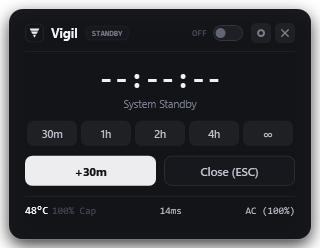
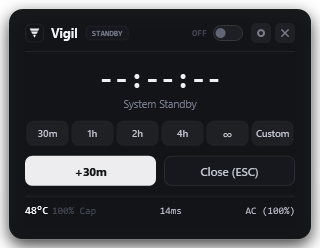
feat: customizable session duration, clean branding assets, and docs update

diff --git a/src/Vigil/Views/FlyoutWindow.xaml b/src/Vigil/Views/FlyoutWindow.xaml
@@ -68,20 +68,53 @@
             <!-- 1: Divider -->
             <Border Grid.Row="1" Height="1" Background="{StaticResource BrushBorderHairline}" Margin="0,8,0,10" />
 
-            <!-- 2: Countdown Timer & Subtitle (Spacious, High Legibility) -->
+            <!-- 2: Countdown Timer & Subtitle (Spacious, High Legibility, Click to Customize) -->
             <StackPanel Grid.Row="2" HorizontalAlignment="Center" Margin="0,0,0,10">
-                <TextBlock x:Name="TxtTimerDigits" Text="--:--:--" FontFamily="{StaticResource FontMono}" FontSize="28" FontWeight="Bold" Foreground="{StaticResource BrushTextWhite}" HorizontalAlignment="Center" />
+                <TextBlock x:Name="TxtTimerDigits" Text="--:--:--" Cursor="Hand" ToolTip="Click to customize duration" MouseLeftButtonDown="TxtTimerDigits_MouseLeftButtonDown" FontFamily="{StaticResource FontMono}" FontSize="28" FontWeight="Bold" Foreground="{StaticResource BrushTextWhite}" HorizontalAlignment="Center" />
                 <TextBlock x:Name="TxtTargetStatus" Text="System Standby" FontSize="10.5" Foreground="{StaticResource BrushTextMuted}" HorizontalAlignment="Center" Margin="0,2,0,0" />
             </StackPanel>
 
-            <!-- 3: Duration Presets (Comfortable Chips) -->
-            <UniformGrid Grid.Row="3" Columns="5" Margin="0,0,0,10">
-                <Button Click="Preset_Click" Tag="1800" Content="30m" Style="{StaticResource BentoPresetBtn}" Height="25" FontSize="10.5" Margin="2,0" />
-                <Button Click="Preset_Click" Tag="3600" Content="1h" Style="{StaticResource BentoPresetBtn}" Height="25" FontSize="10.5" Margin="2,0" />
-                <Button Click="Preset_Click" Tag="7200" Content="2h" Style="{StaticResource BentoPresetBtn}" Height="25" FontSize="10.5" Margin="2,0" />
-                <Button Click="Preset_Click" Tag="14400" Content="4h" Style="{StaticResource BentoPresetBtn}" Height="25" FontSize="10.5" Margin="2,0" />
-                <Button Click="Preset_Click" Tag="-1" Content="∞" Style="{StaticResource BentoPresetBtn}" Height="25" FontSize="11" Margin="2,0" />
-            </UniformGrid>
+            <!-- 3: Duration Presets & Inline Custom Duration -->
+            <Grid Grid.Row="3" Margin="0,0,0,10">
+                <!-- View A: Preset Chips (6 Columns) -->
+                <UniformGrid x:Name="GridPresets" Columns="6">
+                    <Button Click="Preset_Click" Tag="1800" Content="30m" Style="{StaticResource BentoPresetBtn}" Height="25" FontSize="10" Margin="1.5,0" />
+                    <Button Click="Preset_Click" Tag="3600" Content="1h" Style="{StaticResource BentoPresetBtn}" Height="25" FontSize="10" Margin="1.5,0" />
+                    <Button Click="Preset_Click" Tag="7200" Content="2h" Style="{StaticResource BentoPresetBtn}" Height="25" FontSize="10" Margin="1.5,0" />
+                    <Button Click="Preset_Click" Tag="14400" Content="4h" Style="{StaticResource BentoPresetBtn}" Height="25" FontSize="10" Margin="1.5,0" />
+                    <Button Click="Preset_Click" Tag="-1" Content="∞" Style="{StaticResource BentoPresetBtn}" Height="25" FontSize="11" Margin="1.5,0" />
+                    <Button x:Name="BtnToggleCustom" Click="BtnToggleCustom_Click" Content="Custom" Style="{StaticResource BentoPresetBtn}" Height="25" FontSize="9.5" Margin="1.5,0" ToolTip="Set custom duration (hours and minutes)" />
+                </UniformGrid>
+
+                <!-- View B: Inline Custom Duration Picker -->
+                <Grid x:Name="PanelCustomTime" Visibility="Collapsed" Height="25">
+                    <Grid.ColumnDefinitions>
+                        <ColumnDefinition Width="Auto" />
+                        <ColumnDefinition Width="42" />
+                        <ColumnDefinition Width="Auto" />
+                        <ColumnDefinition Width="Auto" />
+                        <ColumnDefinition Width="42" />
+                        <ColumnDefinition Width="Auto" />
+                        <ColumnDefinition Width="*" />
+                        <ColumnDefinition Width="Auto" />
+                    </Grid.ColumnDefinitions>
+
+                    <TextBlock Text="H:" FontFamily="{StaticResource FontMono}" FontSize="10" FontWeight="Bold" Foreground="{StaticResource BrushTextMuted}" VerticalAlignment="Center" Margin="0,0,4,0" />
+                    <TextBox Grid.Column="1" x:Name="TxtCustomHours" Text="1" Style="{StaticResource BentoNumberInput}" Height="24" MaxLength="2" PreviewTextInput="NumberValidationTextBox" KeyDown="CustomInput_KeyDown" />
+
+                    <TextBlock Grid.Column="2" Text="h" FontFamily="{StaticResource FontMono}" FontSize="10" Foreground="{StaticResource BrushTextDim}" VerticalAlignment="Center" Margin="3,0,6,0" />
+
+                    <TextBlock Grid.Column="3" Text="M:" FontFamily="{StaticResource FontMono}" FontSize="10" FontWeight="Bold" Foreground="{StaticResource BrushTextMuted}" VerticalAlignment="Center" Margin="0,0,4,0" />
+                    <TextBox Grid.Column="4" x:Name="TxtCustomMinutes" Text="30" Style="{StaticResource BentoNumberInput}" Height="24" MaxLength="2" PreviewTextInput="NumberValidationTextBox" KeyDown="CustomInput_KeyDown" />
+
+                    <TextBlock Grid.Column="5" Text="m" FontFamily="{StaticResource FontMono}" FontSize="10" Foreground="{StaticResource BrushTextDim}" VerticalAlignment="Center" Margin="3,0,8,0" />
+
+                    <Button Grid.Column="6" x:Name="BtnStartCustom" Click="BtnStartCustom_Click" Content="Start" Style="{StaticResource BentoActionBtn}" Height="24" FontSize="10.5" Padding="0" Margin="0,0,4,0" />
+                    <Button Grid.Column="7" x:Name="BtnCloseCustom" Click="BtnCloseCustom_Click" Style="{StaticResource WindowCtrlBtn}" Width="20" Height="20" ToolTip="Cancel custom duration">
+                        <Path Data="M3 3 L11 11 M11 3 L3 11" Stroke="{Binding Path=Foreground, RelativeSource={RelativeSource AncestorType=Button}}" StrokeThickness="1.5" StrokeStartLineCap="Round" StrokeEndLineCap="Round" Width="7" Height="7" Stretch="Uniform" />
+                    </Button>
+                </Grid>
+            </Grid>
 
             <!-- 4: Action Buttons (Two Wide, Comfortable Touch Targets) -->
             <Grid Grid.Row="4" Margin="0,0,0,8">

diff --git a/src/Vigil/App.xaml b/src/Vigil/App.xaml
@@ -245,5 +245,38 @@
                 </Setter.Value>
             </Setter>
         </Style>
+
+        <!-- Minimalist Number Input (Dark Obsidian) -->
+        <Style x:Key="BentoNumberInput" TargetType="TextBox">
+            <Setter Property="FontFamily" Value="{StaticResource FontMono}" />
+            <Setter Property="FontSize" Value="11" />
+            <Setter Property="FontWeight" Value="SemiBold" />
+            <Setter Property="Foreground" Value="{StaticResource BrushTextWhite}" />
+            <Setter Property="Background" Value="#16181D" />
+            <Setter Property="BorderBrush" Value="{StaticResource BrushBorderHairline}" />
+            <Setter Property="BorderThickness" Value="1" />
+            <Setter Property="HorizontalContentAlignment" Value="Center" />
+            <Setter Property="VerticalContentAlignment" Value="Center" />
+            <Setter Property="CaretBrush" Value="{StaticResource BrushTextWhite}" />
+            <Setter Property="Template">
+                <Setter.Value>
+                    <ControlTemplate TargetType="TextBox">
+                        <Border x:Name="InputBorder" 
+                                Background="{TemplateBinding Background}" 
+                                BorderBrush="{TemplateBinding BorderBrush}" 
+                                BorderThickness="{TemplateBinding BorderThickness}" 
+                                CornerRadius="5">
+                            <ScrollViewer x:Name="PART_ContentHost" />
+                        </Border>
+                        <ControlTemplate.Triggers>
+                            <Trigger Property="IsFocused" Value="True">
+                                <Setter TargetName="InputBorder" Property="BorderBrush" Value="{StaticResource BrushBorderActive}" />
+                                <Setter TargetName="InputBorder" Property="Background" Value="#1F2229" />
+                            </Trigger>
+                        </ControlTemplate.Triggers>
+                    </ControlTemplate>
+                </Setter.Value>
+            </Setter>
+        </Style>
     </Application.Resources>
 </Application>

diff --git a/src/Vigil/Views/SettingsWindow.xaml b/src/Vigil/Views/SettingsWindow.xaml
@@ -120,6 +120,16 @@
                                 </StackPanel>
                                 <CheckBox x:Name="ChkMuteAudio" Style="{StaticResource BentoToggleSwitch}" HorizontalAlignment="Right" VerticalAlignment="Center" />
                             </Grid>
+
+                            <Border Height="1" Background="{StaticResource BrushBorderHairline}" Margin="0,6" />
+
+                            <!-- Row: Default Session Duration Slider -->
+                            <Grid Margin="0,2">
+                                <TextBlock Text="Default session duration" FontSize="11.5" FontWeight="SemiBold" Foreground="{StaticResource BrushTextWhite}" />
+                                <TextBlock x:Name="TxtDefaultDurationLabel" Text="2h 00m" FontFamily="{StaticResource FontMono}" FontSize="11" FontWeight="Bold" Foreground="{StaticResource BrushTextWhite}" HorizontalAlignment="Right" />
+                            </Grid>
+                            <Slider x:Name="SliderDefaultDuration" Minimum="15" Maximum="480" Value="120" TickFrequency="15" IsSnapToTickEnabled="True" Margin="0,6,0,2" ValueChanged="SliderDefaultDuration_ValueChanged" />
+                            <TextBlock Text="Duration applied when starting a session without choosing a specific preset." FontSize="9.5" Foreground="{StaticResource BrushTextMuted}" TextWrapping="Wrap" />
                         </StackPanel>
                     </Border>
 

diff --git a/src/Vigil/Views/FlyoutWindow.xaml.cs b/src/Vigil/Views/FlyoutWindow.xaml.cs
@@ -126,6 +126,8 @@ public partial class FlyoutWindow : Window
                     BtnEndSession.Content = "Stop (ESC)";
                     BtnEndSession.Style = (Style)FindResource("BentoStopActiveBtn");
                     BtnEndSession.ToolTip = "Stop protection and restore normal sleep settings (ESC)";
+                    BtnToggleCustom.Content = "+ Custom";
+                    BtnStartCustom.Content = "+ Add";
                 }
                 else
                 {
@@ -136,6 +138,8 @@ public partial class FlyoutWindow : Window
                     BtnEndSession.Content = "Close (ESC)";
                     BtnEndSession.Style = (Style)FindResource("BentoDangerBtn");
                     BtnEndSession.ToolTip = "Close window to system tray (ESC)";
+                    BtnToggleCustom.Content = "Custom";
+                    BtnStartCustom.Content = "Start";
                 }
             }
             finally
@@ -249,6 +253,69 @@ public partial class FlyoutWindow : Window
         }
     }
 
+    private void BtnToggleCustom_Click(object sender, RoutedEventArgs e) => OpenCustomPanel();
+    private void TxtTimerDigits_MouseLeftButtonDown(object sender, MouseButtonEventArgs e) => OpenCustomPanel();
+
+    private void OpenCustomPanel()
+    {
+        GridPresets.Visibility = Visibility.Collapsed;
+        PanelCustomTime.Visibility = Visibility.Visible;
+        TxtCustomHours.Focus();
+        TxtCustomHours.SelectAll();
+    }
+
+    private void BtnCloseCustom_Click(object sender, RoutedEventArgs e) => CloseCustomPanel();
+
+    private void CloseCustomPanel()
+    {
+        PanelCustomTime.Visibility = Visibility.Collapsed;
+        GridPresets.Visibility = Visibility.Visible;
+    }
+
+    private void NumberValidationTextBox(object sender, TextCompositionEventArgs e)
+    {
+        var regex = new System.Text.RegularExpressions.Regex("[^0-9]+");
+        e.Handled = regex.IsMatch(e.Text);
+    }
+
+    private void CustomInput_KeyDown(object sender, System.Windows.Input.KeyEventArgs e)
+    {
+        if (e.Key == Key.Enter)
+        {
+            BtnStartCustom_Click(sender, e);
+            e.Handled = true;
+        }
+        else if (e.Key == Key.Escape)
+        {
+            CloseCustomPanel();
+            e.Handled = true;
+        }
+    }
+
+    private async void BtnStartCustom_Click(object sender, RoutedEventArgs e)
+    {
+        int.TryParse(TxtCustomHours.Text, out var hours);
+        int.TryParse(TxtCustomMinutes.Text, out var mins);
+
+        if (hours <= 0 && mins <= 0)
+        {
+            mins = 30;
+        }
+
+        var duration = TimeSpan.FromHours(hours) + TimeSpan.FromMinutes(mins);
+        if (_coordinator.CurrentStatus == SessionStatus.Active)
+        {
+            await _coordinator.ExtendSessionAsync(duration);
+        }
+        else
+        {
+            await _coordinator.StartSessionAsync(duration);
+        }
+
+        CloseCustomPanel();
+        RefreshUi();
+    }
+
     private async void Preset_Click(object sender, RoutedEventArgs e)
     {
         if (sender is FrameworkElement { Tag: string tagStr } && int.TryParse(tagStr, out var sec))
@@ -269,6 +336,13 @@ public partial class FlyoutWindow : Window
     {
         if (e.Key == Key.Escape)
         {
+            if (PanelCustomTime.Visibility == Visibility.Visible)
+            {
+                CloseCustomPanel();
+                e.Handled = true;
+                return;
+            }
+
             if (_coordinator.CurrentStatus == SessionStatus.Active)
             {
                 await _coordinator.EndSessionAsync(SessionEndReason.UserRequested);

diff --git a/src/Vigil/Views/SettingsWindow.xaml.cs b/src/Vigil/Views/SettingsWindow.xaml.cs
@@ -26,6 +26,10 @@ public partial class SettingsWindow : Window
         ChkKeepScreenOn.IsChecked = !_config.General.TurnDisplayOffOnSession;
         ChkMuteAudio.IsChecked = _config.General.MuteAudioOnLidClose;
 
+        var defaultMins = Math.Clamp(_config.General.DefaultDurationSeconds / 60, 15, 480);
+        SliderDefaultDuration.Value = defaultMins;
+        UpdateDefaultDurationLabel(defaultMins);
+
         SliderMaxProcessor.Value = _config.Thermal.MaxProcessorStatePercent;
         TxtMaxProcessorLabel.Text = $"{_config.Thermal.MaxProcessorStatePercent}%";
 
@@ -35,6 +39,21 @@ public partial class SettingsWindow : Window
         ChkWifiWatchdog.IsChecked = _config.WiFi.WatchdogEnabled;
         ChkProcessFreezer.IsChecked = _config.Freezer.Enabled;
         ChkAutoPilot.IsChecked = _config.AutoPilot.Enabled;
+    }
+
+    private void SliderDefaultDuration_ValueChanged(object sender, RoutedPropertyChangedEventArgs<double> e)
+    {
+        UpdateDefaultDurationLabel((int)e.NewValue);
+    }
+
+    private void UpdateDefaultDurationLabel(int totalMins)
+    {
+        if (TxtDefaultDurationLabel != null)
+        {
+            var h = totalMins / 60;
+            var m = totalMins % 60;
+            TxtDefaultDurationLabel.Text = h > 0 ? $"{h}h {m:D2}m" : $"{m}m";
+        }
     }
 
     private void SliderMaxProcessor_ValueChanged(object sender, RoutedPropertyChangedEventArgs<double> e)
@@ -74,6 +93,7 @@ public partial class SettingsWindow : Window
 
         _config.General.TurnDisplayOffOnSession = ChkKeepScreenOn.IsChecked != true;
         _config.General.MuteAudioOnLidClose = ChkMuteAudio.IsChecked == true;
+        _config.General.DefaultDurationSeconds = (int)SliderDefaultDuration.Value * 60;
 
         _config.Thermal.MaxProcessorStatePercent = (int)SliderMaxProcessor.Value;
         _config.Thermal.EmergencyTempThresholdCelsius = (int)SliderEmergencyTemp.Value;

diff --git a/CHANGELOG.md b/CHANGELOG.md
@@ -8,6 +8,9 @@ and this project adheres to [Semantic Versioning](https://semver.org/spec/v2.0.0
 ## [1.0.2] - 2026-11-19
 
 ### Added
+- **Customizable Duration**: Added inline custom duration panel (Hours and Minutes) accessible directly from the popover via the `Custom` chip or by clicking the countdown timer digits, with real-time numeric validation and Enter/ESC keyboard control.
+- **Default Duration Slider**: Configurable 15m to 480m (8 hours) session duration slider in Settings, persisting automatically to `config.json`.
+- **Spacious Minimalist Layout**: Expanded flyout dimensions to a comfortable 320 × 248 px with generous breathing room, 7px radii, and crisp micro-telemetry.
 - **Visual Settings Window**: Added an interactive modal settings interface (`SettingsWindow`) accessible via the gear button `⚙` in the menu bar popover or system tray context menu.
 - **Visual Sliders & Toggles**: Intuitive controls for Max Processor State (70-100%), Emergency Thermal Threshold (65-95°C), Start on boot, Screen sleep behavior, Mute audio on lid close, Wi-Fi watchdog, Process freezer, and Auto-pilot.
 - **Direct Configuration Access**: Integrated `📄 Edit config.json` shortcut button that opens `%LOCALAPPDATA%\Vigil\config.json` directly in Notepad for power users.
@@ -28,6 +31,7 @@ and this project adheres to [Semantic Versioning](https://semver.org/spec/v2.0.0
 - **Instant Display Wake**: Added a 1px synthetic mouse nudge to `WakeScreen()` to ensure Windows display drivers immediately restore backlight on lid open or session termination.
 
 ### Added
+- **Radar Chevron Brand Identity**: Integrated precision thermal fin chevron logo. Includes multi-resolution app icons (`icon.ico`, `icon.png`) and high-contrast white tray icon (`tray-icon-32.png`).
 - **Fail-Safe Session Cancellation**: Prominent vermillion `Stop (ESC)` button in flyout window, direct keyboard `ESC` shortcut, top-right master `OFF` switch, and top-level tray menu stop command.
 - **Interactive Preset Chips**: Clean 5-column preset buttons (`30m`, `1h`, `2h`, `4h`, `∞`) for instant session arming.
 

diff --git a/README.md b/README.md
@@ -65,7 +65,7 @@ Vigil provides four immediate, fail-safe ways to cancel an active guard session:
 
 - **Compact Menu Bar Interface**: Ultra-sleek 320 × 248 px popover inspired by Insomnia on macOS, Dieter Rams, and Teenage Engineering. Floats right above your taskbar system tray with an Obsidian (`#131417`) and Moon-White (`#EDEDF0`) palette. 100% clean English typography with zero AI-slop.
 - **Master Hardware Switch**: Direct `ON` / `OFF` toggle in the top-right header for instant manual protection without configuring a timer.
-- **Quick Preset Chips**: Jump into `30m`, `1h`, `2h`, `4h`, or indefinite (`∞`) protection with a single click.
+- **Customizable Duration & Presets**: Set any custom duration (hours and minutes) on the fly by clicking the countdown timer or the `Custom` chip. Jump directly into `30m`, `1h`, `2h`, `4h`, or indefinite (`∞`) sessions with a single click, or set your preferred default duration slider in Settings.
 - **Safe Display Handling**: Display blackout on session start is disabled by default (`turnDisplayOffOnSession = false`), ensuring your screen never goes unexpectedly black while you work. When the physical laptop lid is closed, the display backlight sleeps naturally and wakes instantly on lid open.
 - **CPU Thermal Throttler**: Enforces a 92% maximum processor state cap (`PROCTHROTTLEMAX`), preventing Intel and AMD Turbo Boost voltage spikes while preserving over 95% multi-core throughput. Core temperatures drop by 20°C to 25°C.
 - **Wi-Fi Watchdog**: Periodically monitors local gateway ping latency and auto-reassociates dropped wireless profiles via `netsh` during headless operation, with an inline toggle switch in the flyout.
